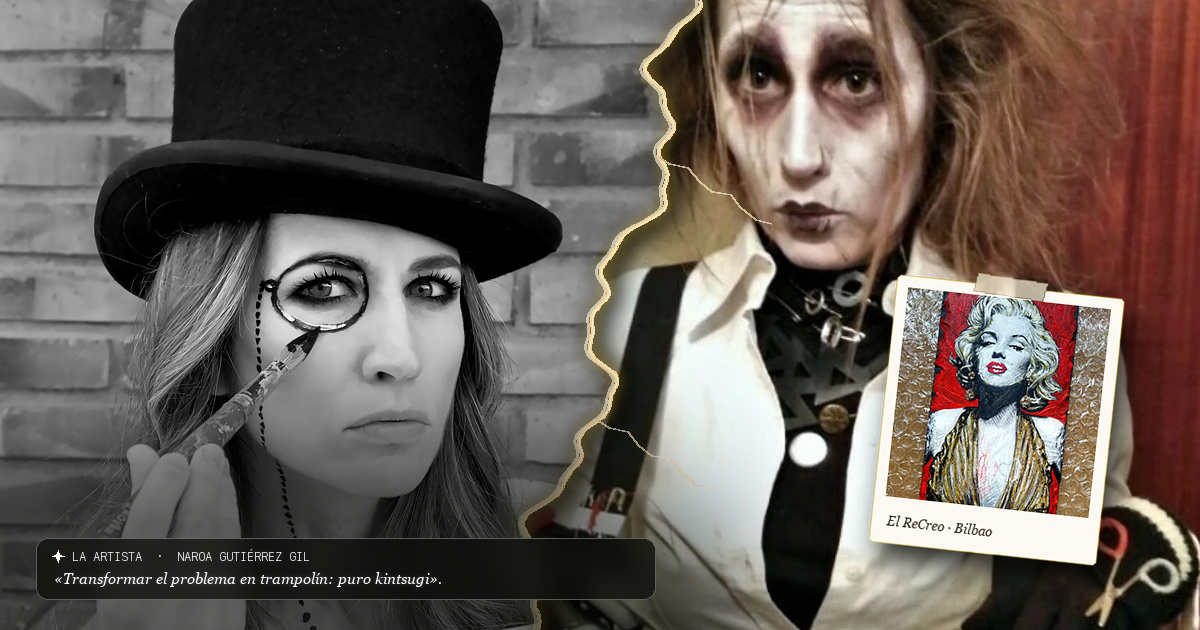
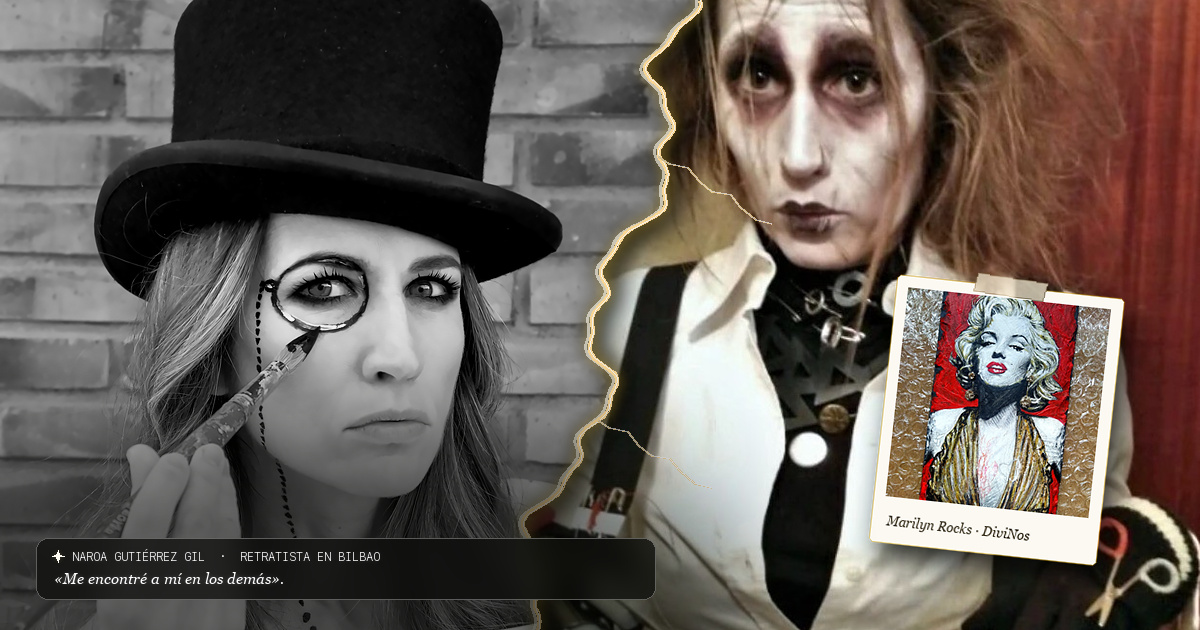
COMPARTIR: cada página se comparte a sí misma y la tarjeta de Sobre mí lleva una cita literal
- Fuera de la galería ya no se comparte la primera obra del catálogo: el pie de
  Sobre mí, Trayectoria, Blog, Encargos y Contacto comparte la propia página con
  su título completo; la 404 comparte la portada.
- Con una obra en pantalla se comparte esa obra, también desde la ficha (su botón
  nacía con la URL de la obra inicial). El título de obra sigue saliendo limpio.
- En Sobre mí la Story nace de Rara Avis, y pulsar «compartir» antes de que termine
  de generarse ya no la cambia por una obra al azar.
- Tarjeta social de /sobre-mi/ (v3): «Me encontré a mí en los demás» sustituye a una
  frase recompuesta que Naroa no dijo, el cromo dice qué obra es y el alt describe
  la tarjeta. Al subir de versión una tarjeta se retira la anterior.

Changed region(s): [[0.0308, 0.8746, 0.37, 0.9349], [0.74, 0.8143, 0.8633, 0.8746]]

diff --git a/classic/immersive/app.js b/classic/immersive/app.js
@@ -160,7 +160,8 @@
     if (match) {
       return (catalogue.projects || []).find(p => p.slug === match[1]) || null;
     }
-    return (catalogue.projects || [])[0] || null;
+    // Fuera de la galería y de /obra/<slug>/ no hay obra activa: lo que se comparte es la página.
+    return galleryPage ? (catalogue.projects || [])[0] || null : null;
   }
 
   function loadImageAsync(src, patience = 8000) {
@@ -635,7 +636,8 @@
   async function shareStoryToInstagram() {
     const dialog = $('#story-remix-dialog');
     if (!currentRemixFile && !currentRemixDataUrl) {
-      await generateStoryRemix();
+      // Se regenera la misma obra que ya estaba en curso, no otra al azar.
+      await generateStoryRemix(currentRemixSlug);
     }
     const title = 'Naroa Gutiérrez Gil · Exposición inmersiva Bilbao';
     const text = 'Remix de obras pictóricas de Naroa Gutiérrez Gil · naroagutierrezgil.com';
@@ -681,9 +683,15 @@
     const p = getActiveArtwork();
     const customUrl = btn.dataset.shareUrl;
     const customTitle = btn.dataset.shareTitle;
-    const url = customUrl || (location.origin + (p ? '/obra/' + p.slug + '/' : location.pathname));
-    const rawTitle = customTitle || (p ? p.title : document.title);
-    const title = rawTitle.replace(/\s*·\s*Naroa Gutiérrez Gil.*$/i, '').trim();
+    // Con una obra en pantalla se comparte esa obra (el botón de la ficha nace con la URL de la obra
+    // inicial y no se reescribe al cambiar de escena). Sin obra, la página; y desde la 404, la portada.
+    const lost = document.body.classList.contains('page-404');
+    const shareOrigin = customUrl ? new URL(customUrl, location.href).origin : location.origin;
+    const url = p ? `${shareOrigin}/obra/${p.slug}/` : (customUrl || location.origin + (lost ? '/' : location.pathname));
+    // Una obra se comparte con su título limpio; una página conserva el nombre de la artista
+    // (un «Sobre mí» a secas, publicado por quien visita, se leería como suyo).
+    const rawTitle = p ? p.title : (customTitle || (lost ? 'Naroa Gutiérrez Gil' : $('meta[property="og:title"]')?.content || document.title));
+    const title = (p || customTitle) ? rawTitle.replace(/\s*·\s*Naroa Gutiérrez Gil.*$/i, '').trim() : rawTitle.trim();
     const text = title;
     const encodedUrl = encodeURIComponent(url);
     const encodedText = encodeURIComponent(text);
@@ -694,7 +702,8 @@
       window.open(`https://twitter.com/intent/tweet?url=${encodedUrl}&text=${encodedText}`, '_blank', 'noopener,noreferrer,width=640,height=560');
     } else if (network === 'instagram') {
       openDialog('#story-remix-dialog');
-      generateStoryRemix(p?.slug || null);
+      // En la página de la artista la Story nace de su autorretrato, no de una obra al azar.
+      generateStoryRemix(p?.slug || ($('[data-eye-portrait]') ? 'rara-avis' : null));
     } else if (network === 'tiktok') {
       if (navigator.share) {
         navigator.share({ title, text, url }).catch(() => {});

diff --git a/tools/build_immersive_site.py b/tools/build_immersive_site.py
@@ -242,7 +242,7 @@ def build(output):
         except Exception:
             font_micro = font_quote = font_cromo = ImageFont.load_default()
 
-        def create_card(filename, left_img_path, right_img_path, cromo_img_path, micro_tag, micro_quote, cromo_label, seed_phase=0.0, split_mode="split"):
+        def create_card(filename, left_img_path, right_img_path, cromo_img_path, micro_tag, micro_quote, cromo_label, seed_phase=0.0, split_mode="split", version="v2"):
             W, H = 1200, 630
             # 1. Right / Secondary Plane (Focused in Right Half x=460..1200 so subject is 100% visible)
             right_plane = Image.new("RGB", (W, H), "#0b0c0a")
@@ -398,8 +398,14 @@ def build(output):
             card.save(dest_src, quality=95, subsampling=0, optimize=True)
             dest_deploy = target_social_dir / filename
             shutil.copy2(dest_src, dest_deploy)
-            # Also write cache-busted v2 sibling so WhatsApp/Twitter scrapers refresh immediately
-            v2_name = filename.replace(".jpg", "-v2.jpg")
+            # Also write a cache-busted sibling so WhatsApp/Twitter scrapers refresh immediately;
+            # bump `version` whenever a card's picture or text changes.
+            v2_name = filename.replace(".jpg", f"-{version}.jpg")
+            # A superseded sibling must not stay published with the old picture or text.
+            for folder in (social_dir, target_social_dir):
+                for stale in folder.glob(filename.replace(".jpg", "-v*.jpg")):
+                    if stale.name != v2_name:
+                        stale.unlink()
             shutil.copy2(dest_src, social_dir / v2_name)
             shutil.copy2(dest_src, target_social_dir / v2_name)
 
@@ -439,10 +445,12 @@ def build(output):
             source_dir / "images/sobre-mi/naroa-monoculo.jpg",
             source_dir / "images/menu/menu-03-manostijeras.jpg",
             source_dir / "images/catalogo/marilyn-rocks-4k.webp",
-            "LA ARTISTA  ·  NAROA GUTIÉRREZ GIL",
-            "«Transformar el problema en trampolín: puro kintsugi».",
-            "El ReCreo · Bilbao",
-            seed_phase=3.1
+            "NAROA GUTIÉRREZ GIL  ·  RETRATISTA EN BILBAO",
+            # Cita literal (Iconos Pop, 2020): lo que va entre « » en la tarjeta también lo dijo Naroa.
+            "«Me encontré a mí en los demás».",
+            "Marilyn Rocks · DiviNos",
+            seed_phase=3.1,
+            version="v3"
         )
         create_card(
             "naroa-share-card-encargos.jpg",
@@ -874,7 +882,7 @@ def build(output):
         ],
     }
 
-    def page(path, title, description, body, image, gallery=False, schema=None, not_found=False, image_alt=None):
+    def page(path, title, description, body, image, gallery=False, schema=None, not_found=False, image_alt=None, card_alt=None):
         canonical = ORIGIN + path
         im_w, im_h, im_mime = image_info(image)
         im_alt = image_alt or f"{title} · Naroa Gutiérrez Gil"
@@ -883,12 +891,14 @@ def build(output):
             "/obra/": "/images/social/naroa-share-card-home-v2.jpg",
             "/cuaderno/": "/images/social/naroa-share-card-cuaderno-v2.jpg",
             "/trayectoria/": "/images/social/naroa-share-card-trayectoria-v2.jpg",
-            "/sobre-mi/": "/images/social/naroa-share-card-sobre-mi-v2.jpg",
+            "/sobre-mi/": "/images/social/naroa-share-card-sobre-mi-v3.jpg",
             "/retratos-por-encargo-bilbao/": "/images/social/naroa-share-card-encargos-v2.jpg",
             "/series/vaivenes/": "/images/social/naroa-share-card-vaivenes-v2.jpg",
             "/contacto/": "/images/social/naroa-share-card-contacto-v2.jpg",
         }
         og_img_path = og_card_map.get(path, image)
+        # La tarjeta social no es la fotografía de la página: si se describe aparte, ese es su alt.
+        og_alt = card_alt if card_alt and og_img_path != image else im_alt
         og_w, og_h, og_mime = (1200, 630, "image/jpeg") if og_img_path.startswith("/images/social/naroa-share-card") else (im_w, im_h, im_mime)
         structured = dict(schema or {"@context": "https://schema.org", "@type": "WebPage", "name": title, "url": canonical, "description": description})
         structured.setdefault("inLanguage", "es-ES")
@@ -926,7 +936,7 @@ def build(output):
             }
         breadcrumb_tag = f'<script type="application/ld+json" id="seo-breadcrumb">{data_json(breadcrumb)}</script>' if breadcrumb else ''
         slug_class = "page-" + (path.strip("/").replace("/", "-") or "home")
-        html = f'''<!doctype html><html lang="es"><head><meta charset="utf-8"><meta name="viewport" content="width=device-width,initial-scale=1,viewport-fit=cover"><title>{esc(title)} · Naroa Gutiérrez Gil</title><meta name="description" content="{esc(description)}"><meta name="robots" content="index, follow, max-image-preview:large"><meta name="theme-color" content="#11120f"><meta name="apple-mobile-web-app-capable" content="yes"><meta name="apple-mobile-web-app-status-bar-style" content="black-translucent"><meta name="apple-mobile-web-app-title" content="Naroa"><link rel="manifest" href="/manifest.webmanifest"><link rel="apple-touch-icon" href="/assets/naroa-icon-180-v1.png"><link rel="alternate" type="application/rss+xml" title="Naroa Gutiérrez Gil · Obras y Blog" href="{ORIGIN}/feed.xml"><link rel="mcp" type="application/json" href="{ORIGIN}/.well-known/mcp.json" title="WebMCP Model Context Protocol"><link rel="canonical" href="{canonical}"><meta property="og:site_name" content="Naroa Gutiérrez Gil"><meta property="og:locale" content="es_ES"><meta property="og:title" content="{esc(title)} · Naroa Gutiérrez Gil"><meta property="og:description" content="{esc(description)}"><meta property="og:url" content="{canonical}"><meta property="og:type" content="{'article' if gallery and path not in ('/', '/obra/', '/series/vaivenes/') else 'website'}"><meta property="og:image" content="{ORIGIN}{og_img_path}"><meta property="og:image:secure_url" content="{ORIGIN}{og_img_path}"><meta property="og:image:width" content="{og_w}"><meta property="og:image:height" content="{og_h}"><meta property="og:image:type" content="{og_mime}"><meta property="og:image:alt" content="{esc(im_alt)}"><meta name="twitter:card" content="summary_large_image"><meta name="twitter:title" content="{esc(title)} · Naroa Gutiérrez Gil"><meta name="twitter:description" content="{esc(description)}"><meta name="twitter:image" content="{ORIGIN}{og_img_path}"><meta name="twitter:image:alt" content="{esc(im_alt)}"><link rel="icon" href="{favicon_path}" type="image/svg+xml" sizes="any"><link rel="preconnect" href="https://fonts.googleapis.com"><link rel="preconnect" href="https://fonts.gstatic.com" crossorigin><link href="https://fonts.googleapis.com/css2?family=Caveat:wght@400;500&family=Cormorant+Garamond:ital,wght@0,300;0,400;0,600;1,300;1,400&family=DM+Sans:wght@400;500&display=swap" rel="stylesheet"><link rel="stylesheet" href="{assets['app.css']}"><script type="application/ld+json" id="page-schema">{data_json(structured)}</script>{breadcrumb_tag}<script type="application/vnd.mcp+json" id="webmcp-schema">{data_json(webmcp_manifest)}</script><script defer src="{catalog_path}"></script><script defer src="{assets['soundscape.js']}"></script><script defer src="{assets['journey.js']}"></script><script defer src="{assets['app.js']}"></script></head><body class="{'gallery-page' if gallery else 'editorial-page'} {slug_class}"><a class="skip-link" href="#main">Ir al contenido</a>{header(gallery)}{body}{'' if gallery else footer()}{dialogs()}</body></html>'''
+        html = f'''<!doctype html><html lang="es"><head><meta charset="utf-8"><meta name="viewport" content="width=device-width,initial-scale=1,viewport-fit=cover"><title>{esc(title)} · Naroa Gutiérrez Gil</title><meta name="description" content="{esc(description)}"><meta name="robots" content="index, follow, max-image-preview:large"><meta name="theme-color" content="#11120f"><meta name="apple-mobile-web-app-capable" content="yes"><meta name="apple-mobile-web-app-status-bar-style" content="black-translucent"><meta name="apple-mobile-web-app-title" content="Naroa"><link rel="manifest" href="/manifest.webmanifest"><link rel="apple-touch-icon" href="/assets/naroa-icon-180-v1.png"><link rel="alternate" type="application/rss+xml" title="Naroa Gutiérrez Gil · Obras y Blog" href="{ORIGIN}/feed.xml"><link rel="mcp" type="application/json" href="{ORIGIN}/.well-known/mcp.json" title="WebMCP Model Context Protocol"><link rel="canonical" href="{canonical}"><meta property="og:site_name" content="Naroa Gutiérrez Gil"><meta property="og:locale" content="es_ES"><meta property="og:title" content="{esc(title)} · Naroa Gutiérrez Gil"><meta property="og:description" content="{esc(description)}"><meta property="og:url" content="{canonical}"><meta property="og:type" content="{'article' if gallery and path not in ('/', '/obra/', '/series/vaivenes/') else 'website'}"><meta property="og:image" content="{ORIGIN}{og_img_path}"><meta property="og:image:secure_url" content="{ORIGIN}{og_img_path}"><meta property="og:image:width" content="{og_w}"><meta property="og:image:height" content="{og_h}"><meta property="og:image:type" content="{og_mime}"><meta property="og:image:alt" content="{esc(og_alt)}"><meta name="twitter:card" content="summary_large_image"><meta name="twitter:title" content="{esc(title)} · Naroa Gutiérrez Gil"><meta name="twitter:description" content="{esc(description)}"><meta name="twitter:image" content="{ORIGIN}{og_img_path}"><meta name="twitter:image:alt" content="{esc(og_alt)}"><link rel="icon" href="{favicon_path}" type="image/svg+xml" sizes="any"><link rel="preconnect" href="https://fonts.googleapis.com"><link rel="preconnect" href="https://fonts.gstatic.com" crossorigin><link href="https://fonts.googleapis.com/css2?family=Caveat:wght@400;500&family=Cormorant+Garamond:ital,wght@0,300;0,400;0,600;1,300;1,400&family=DM+Sans:wght@400;500&display=swap" rel="stylesheet"><link rel="stylesheet" href="{assets['app.css']}"><script type="application/ld+json" id="page-schema">{data_json(structured)}</script>{breadcrumb_tag}<script type="application/vnd.mcp+json" id="webmcp-schema">{data_json(webmcp_manifest)}</script><script defer src="{catalog_path}"></script><script defer src="{assets['soundscape.js']}"></script><script defer src="{assets['journey.js']}"></script><script defer src="{assets['app.js']}"></script></head><body class="{'gallery-page' if gallery else 'editorial-page'} {slug_class}"><a class="skip-link" href="#main">Ir al contenido</a>{header(gallery)}{body}{'' if gallery else footer()}{dialogs()}</body></html>'''
         dest = output / ("404.html" if not_found else path.lstrip("/") + "index.html")
         write(dest, html)
         if not not_found:
@@ -1294,7 +1304,8 @@ def build(output):
         "relatedLink": [ORIGIN + "/trayectoria/", ORIGIN + "/retratos-por-encargo-bilbao/"],
         "mainEntity": canonical_artist_entity,
     }
-    page("/sobre-mi/", "Sobre mí · Retratista en Bilbao", about_description, '<main id="main">' + about + '</main>', "/images/sobre-mi/naroa-monoculo.jpg", schema=about_schema, image_alt="Naroa Gutiérrez Gil con chistera y un monóculo ante un ojo")
+    page("/sobre-mi/", "Sobre mí · Retratista en Bilbao", about_description, '<main id="main">' + about + '</main>', "/images/sobre-mi/naroa-monoculo.jpg", schema=about_schema, image_alt="Naroa Gutiérrez Gil con chistera y un monóculo ante un ojo",
+         card_alt="Naroa Gutiérrez Gil con chistera y monóculo; a su lado, una caracterización de rostro pálido y ojos ahumados, y la pizarra Marilyn Rocks. Sobre la imagen, su frase «Me encontré a mí en los demás».")
 
     exhibitions = read_data("exhibitions")["exhibitions"]
     years = sorted({x["year"] for x in exhibitions}, reverse=True)
